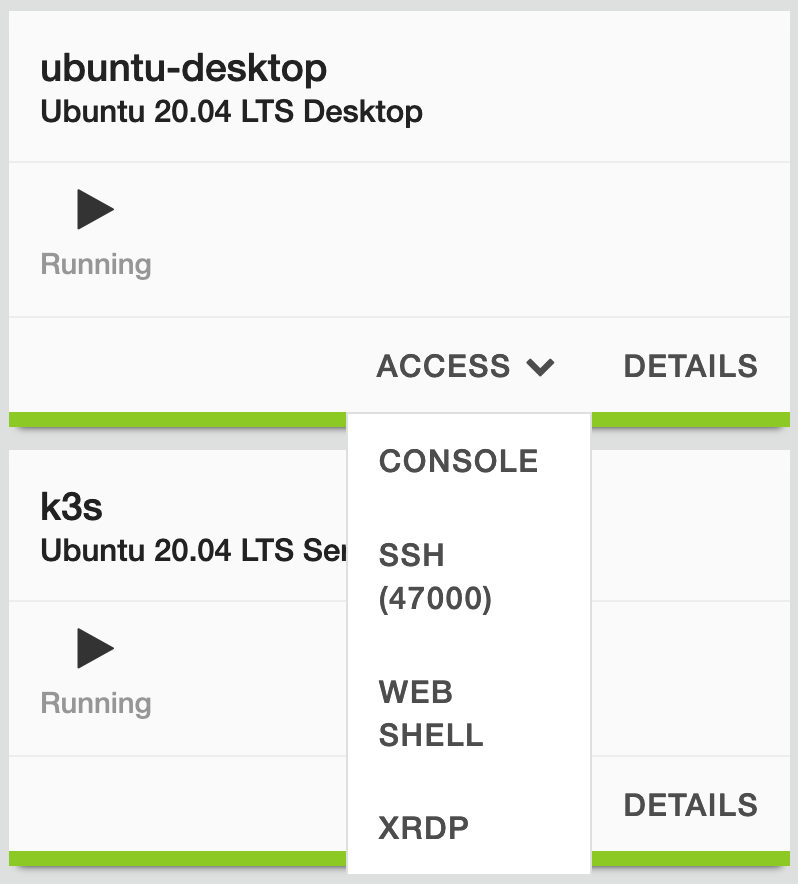
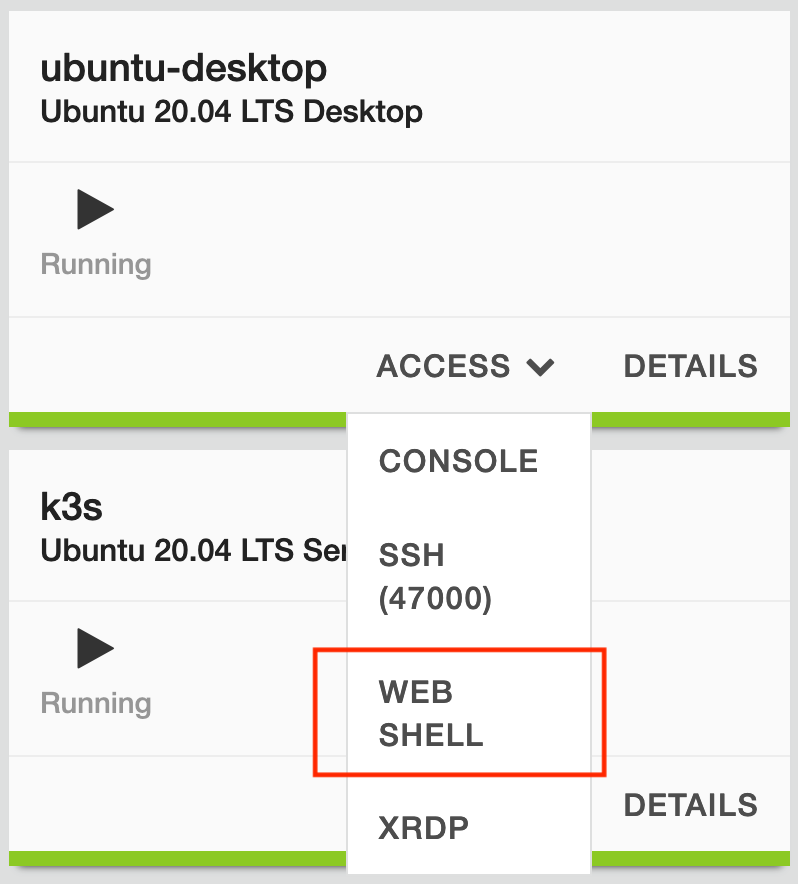
cambios

Changed region(s): [[0.391, 0.733, 0.782, 0.8857]]

diff --git a/docs/k8s/README.md b/docs/k8s/README.md
@@ -27,10 +27,8 @@ En la guía se utilizará `vim` para crear y modificar los archivos de configura
 >
 > 
 > Se recomienda una ejecutar el laboratorio en su totalidad desde el RDP `ubuntu-desktop` (guia + CLI) o usar la opcion de UDF de WebShell al servidor `ubuntu-desktop` y seguir la guia desde el PC local.
-> 
-
-Hay 2 maneras de ejecutar el laboratorio:
-1. Haciendo RDP al servidor `ubuntu-desktop` y 
+>
+> ![Webshell](./webshell.png)
 
 
 Abrir la consola del Jumphost y clonar el repositorio del Lab
